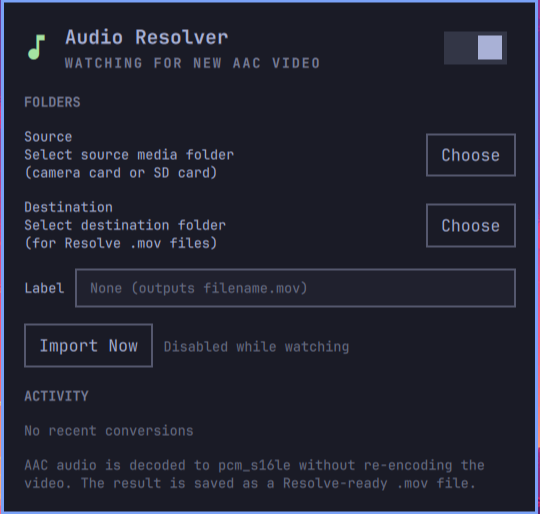
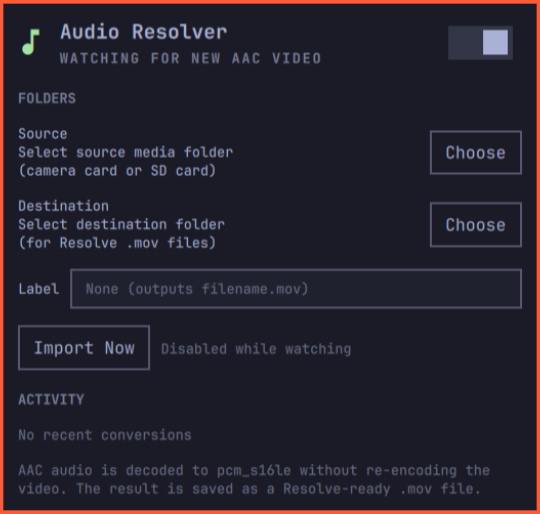
Update README artwork

Changed region(s): [[0.0, 0.0, 1.0, 1.0]]

diff --git a/README.md b/README.md
@@ -1,4 +1,4 @@
-![Audio Resolver](assets/banner1.png)
+![Audio Resolver](assets/banner.png)
 # Audio Resolver
 
 Audio Resolver is an Omarchy status bar plugin that prepares camera footage
@@ -66,8 +66,6 @@ selected destination.
 As with any local shell plugin, only install it from a repository you trust and
 review updates before enabling it. `ffmpeg`, `ffprobe`, `inotifywait`, and the
 Omarchy file picker are external dependencies.
-
-![Audio Resolver](assets/banner2.png)
 
 ## License
 
